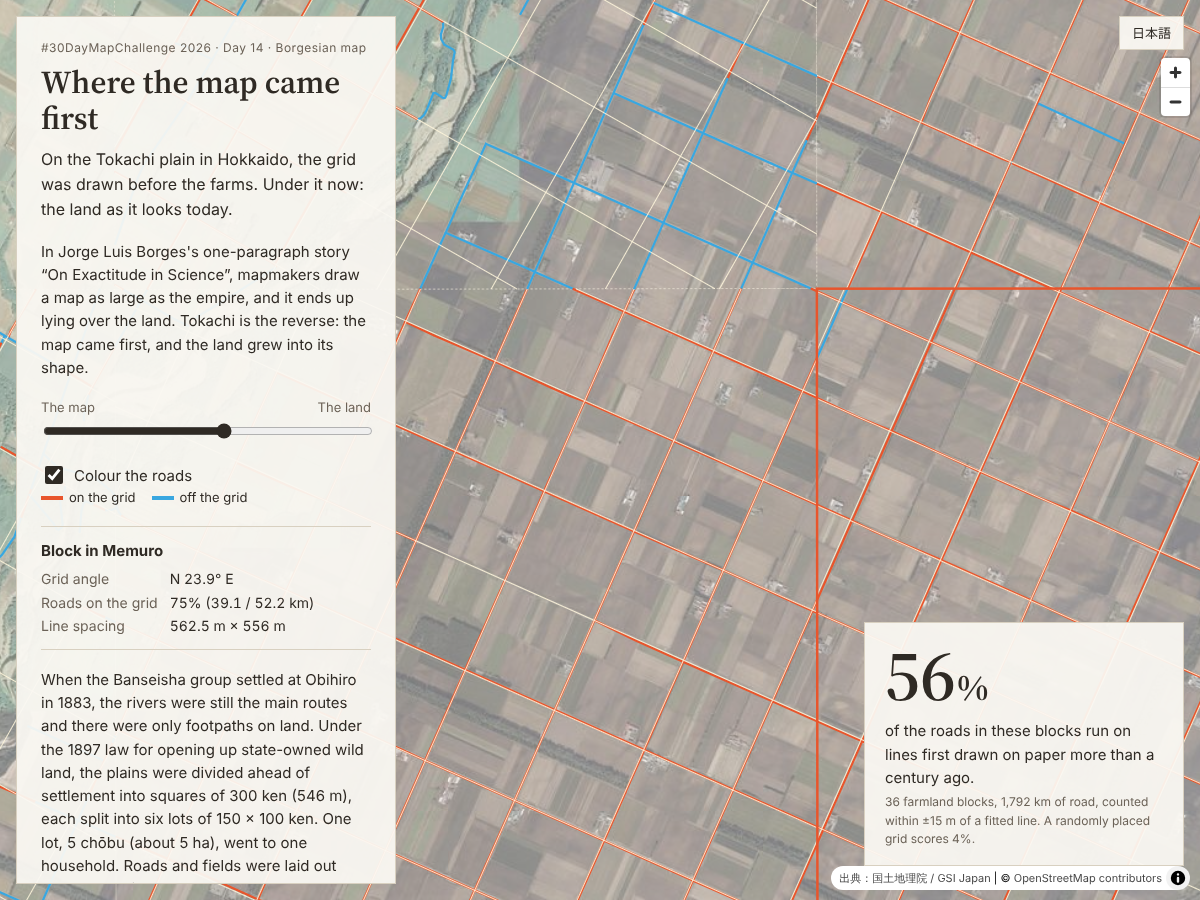
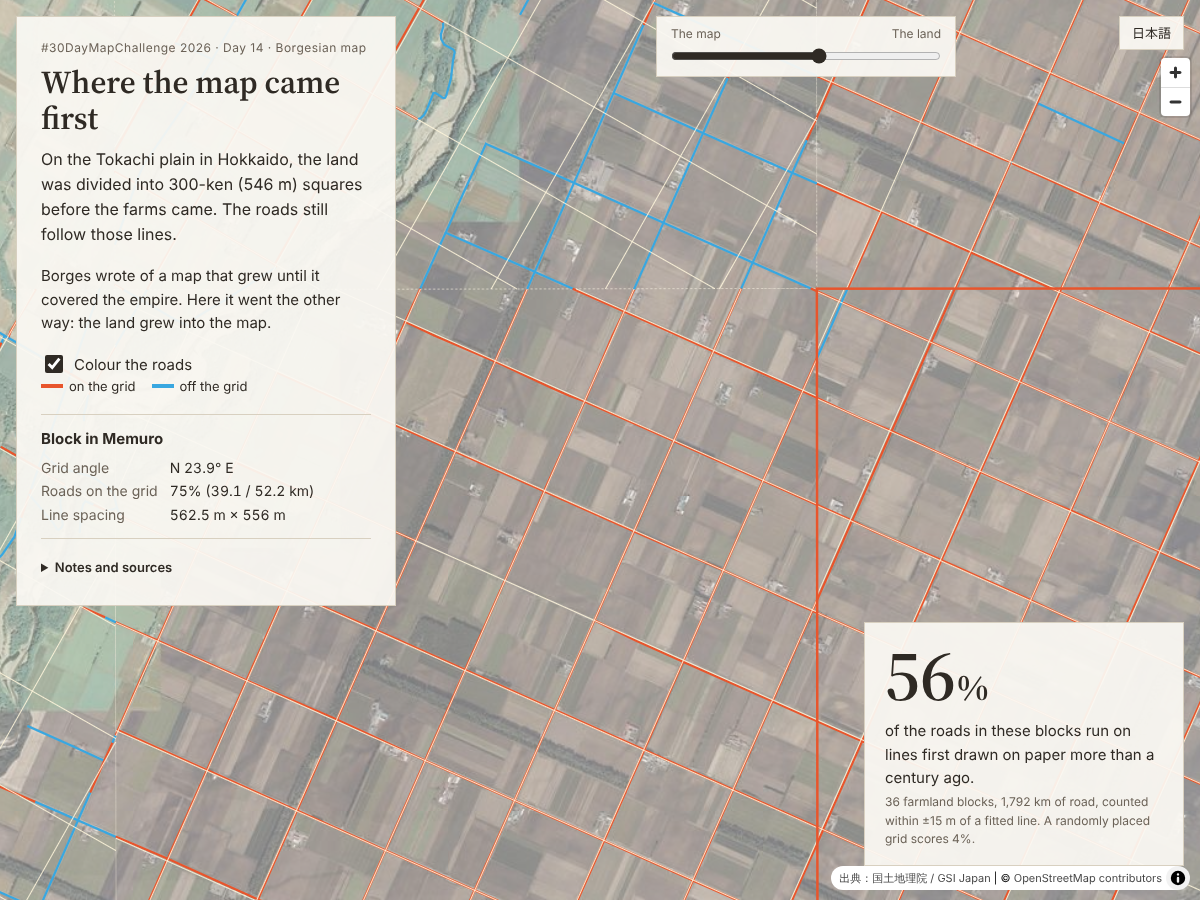
Shorten panel text and move transparency slider onto the map

Changed region(s): [[0.0, 0.1556, 0.3392, 0.9956], [0.5242, 0.0, 0.8017, 0.0933], [0.2775, 0.4356, 0.3083, 0.4667]]

diff --git a/web/app.js b/web/app.js
@@ -5,10 +5,9 @@
     en: {
       kicker: "#30DayMapChallenge 2026 · Day 14 · Borgesian map",
       title: "Where the map came first",
-      lede: "On the Tokachi plain in Hokkaido, the grid was drawn before the farms. Under it now: the land as it looks today.",
-      borges: "In Jorge Luis Borges's one-paragraph story “On Exactitude in Science”, mapmakers draw a map as large as the empire, and it ends up lying over the land. Tokachi is the reverse: the map came first, and the land grew into its shape.",
-      history: "When the Banseisha group settled at Obihiro in 1883, the rivers were still the main routes and there were only footpaths on land. Under the 1897 law for opening up state-owned wild land, the plains were divided ahead of settlement into squares of 300 ken (546 m), each split into six lots of 150 × 100 ken. One lot, 5 chōbu (about 5 ha), went to one household. Roads and fields were laid out along those lines, and the settlement survey went on until 1946.",
-      method: "The lines on this map are not copied from old plans. They were fitted to today's roads: in each 4 × 4 km block, the direction of the roads gives the angle of the grid, and the lines are shifted until they sit on as many roads as possible.",
+      lede: "On the Tokachi plain in Hokkaido, the land was divided into 300-ken (546 m) squares before the farms came. The roads still follow those lines.",
+      borges: "Borges wrote of a map that grew until it covered the empire. Here it went the other way: the land grew into the map.",
+      history: "Under the 1897 law for opening up state-owned wild land, each 300-ken square was split into six lots of 150 × 100 ken, and one lot (5 chōbu, about 5 ha) went to one household. The settlement survey went on until 1946.",
       mapEnd: "The map",
       landEnd: "The land",
       roadsToggle: "Colour the roads",
@@ -37,10 +36,9 @@
     ja: {
       kicker: "#30DayMapChallenge 2026 · Day 14 · Borgesian map",
       title: "地図が先に来た場所",
-      lede: "北海道・十勝平野では、畑より先に格子が引かれた。その下に、いまの土地の姿を重ねた。",
-      borges: "ボルヘスの短い物語「学問の厳密さについて」では、帝国と同じ大きさの地図が作られ、やがて領土を覆う。十勝はその逆で、先に地図があり、土地の方がその形に育った。",
-      history: "1883年に晩成社が帯広に入ったころ、交通の中心はまだ川で、陸にはふみわけ道があるくらいだった。1897年の北海道国有未開地処分法のもとで、原野は入植に先立って300間（546m）四方の中区画に分けられ、それぞれが150間×100間の小区画6つに分けられた。小区画1つ、5町歩が1戸の割り当てだった。道と畑はその線に沿って作られ、殖民地選定事業は1946年まで続いた。",
-      method: "この地図の線は、昔の区画図を写したものではない。いまの道路から推定した。4km四方の区画ごとに、道路の向きの分布から格子の角度を求め、道路と最もよく重なる位置に線をずらして合わせている。",
+      lede: "北海道・十勝平野では、畑より先に300間（546m）四方の格子が引かれた。道はいまもその線の上を走っている。",
+      borges: "ボルヘスは、帝国を覆うまで大きくなった地図の話を書いた。ここではその逆に、土地の方が地図の形に育った。",
+      history: "1897年の北海道国有未開地処分法のもとで、300間四方の中区画は150間×100間の小区画6つに分けられ、小区画1つ（5町歩）が1戸に割り当てられた。殖民地選定事業は1946年まで続いた。",
       mapEnd: "地図",
       landEnd: "土地",
       roadsToggle: "道路を色分けする",

diff --git a/web/style.css b/web/style.css
@@ -29,7 +29,7 @@ html[lang="ja"] body { font-family: "Noto Sans JP", var(--sans); }
   position: absolute;
   top: 16px;
   left: 16px;
-  bottom: 16px;
+  max-height: calc(100% - 32px);
   width: 380px;
   padding: 22px 24px;
   background: var(--panel);
@@ -56,14 +56,25 @@ html[lang="ja"] h1 { font-family: "Noto Sans JP", var(--sans); font-size: 28px; 
 .story p { margin: 0 0 12px; }
 
 .control { margin: 18px 0; }
-.control-label {
+
+.blend {
+  position: absolute;
+  top: 16px;
+  left: calc(50% + 206px);
+  transform: translateX(-50%);
+  width: 300px;
+  padding: 8px 14px 6px;
+  background: var(--panel);
+  border: 1px solid var(--rule);
+  z-index: 2;
+}
+.blend-label {
   display: flex;
   justify-content: space-between;
-  font-size: 13px;
+  font-size: 12px;
   color: var(--ink-soft);
-  margin-bottom: 4px;
 }
-input[type="range"] { width: 100%; accent-color: var(--ink); }
+.blend input[type="range"] { width: 100%; margin: 4px 0 0; accent-color: var(--ink); }
 .check { display: flex; gap: 8px; align-items: center; cursor: pointer; }
 .check input { width: 18px; height: 18px; accent-color: var(--ink); }
 .legend { margin: 8px 0 0; font-size: 13px; display: flex; align-items: center; gap: 6px; flex-wrap: wrap; }
@@ -159,5 +170,14 @@ input[type="range"] { width: 100%; accent-color: var(--ink); }
   .stat-text { font-size: 12px; margin-top: 4px; }
   .stat-sub { display: none; }
   .lang { top: 12px; right: 12px; }
+  .blend {
+    top: auto;
+    bottom: calc(46vh + 40px);
+    left: 12px;
+    right: 12px;
+    width: auto;
+    transform: none;
+    padding: 6px 12px 4px;
+  }
   .maplibregl-ctrl-bottom-right { bottom: 46vh; }
 }

diff --git a/web/index.html b/web/index.html
@@ -25,14 +25,6 @@
     <p data-i18n="borges"></p>
 
     <div class="control">
-      <label for="blend" class="control-label">
-        <span data-i18n="mapEnd"></span>
-        <span data-i18n="landEnd"></span>
-      </label>
-      <input id="blend" type="range" min="0" max="100" value="70" step="1">
-    </div>
-
-    <div class="control">
       <label class="check">
         <input id="roads" type="checkbox" checked>
         <span data-i18n="roadsToggle"></span>
@@ -47,12 +39,10 @@
       <p class="muted" data-i18n="clickHint"></p>
     </div>
 
-    <p data-i18n="history"></p>
-    <p data-i18n="method"></p>
-
     <details class="notes">
       <summary data-i18n="notesTitle"></summary>
       <ul>
+        <li data-i18n="history"></li>
         <li data-i18n="note1"></li>
         <li data-i18n="note2"></li>
         <li data-i18n="note3"></li>
@@ -62,6 +52,14 @@
     </details>
   </div>
 </aside>
+
+<div class="blend">
+  <label for="blend" class="blend-label">
+    <span data-i18n="mapEnd"></span>
+    <span data-i18n="landEnd"></span>
+  </label>
+  <input id="blend" type="range" min="0" max="100" value="70" step="1" aria-label="Grid / aerial photo">
+</div>
 
 <div id="stat" class="stat" aria-live="polite">
   <div class="stat-num"><span id="stat-value">–</span><span class="pct">%</span></div>

diff --git a/README.md b/README.md
@@ -16,7 +16,7 @@
 航空写真の上に、今の道路から推定した格子と、格子の上を走る道路・外れる道路を重ねて表示します。スライダーを左に動かすと、白い紙の上に格子だけが残ります。
 
 - 英語表記が既定で、右上のボタンで日本語に切り替えられます。
-- スライダーで「地図（格子）」と「土地（航空写真）」の見え方を切り替えます。
+- 地図の上のスライダーで、「地図（格子）」と「土地（航空写真）」の見え方を切り替えます。
 - 道路は、格子の上を走るもの（橙）と外れるもの（青）に色分けして表示します。「道路を色分けする」で表示を切り替えられます。
 - 区画（4km四方）をクリックすると、格子の向き、格子の上を走る道路の割合、線の間隔が出ます。
 
